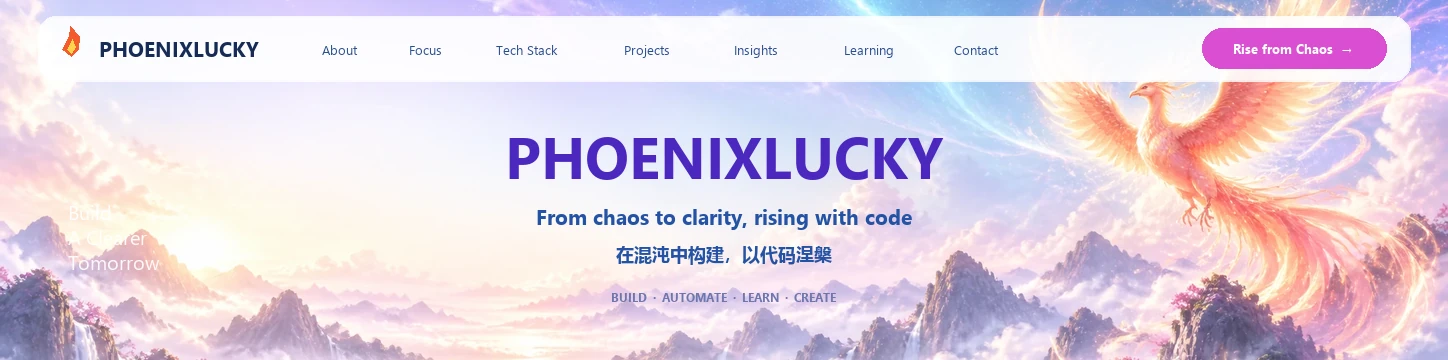
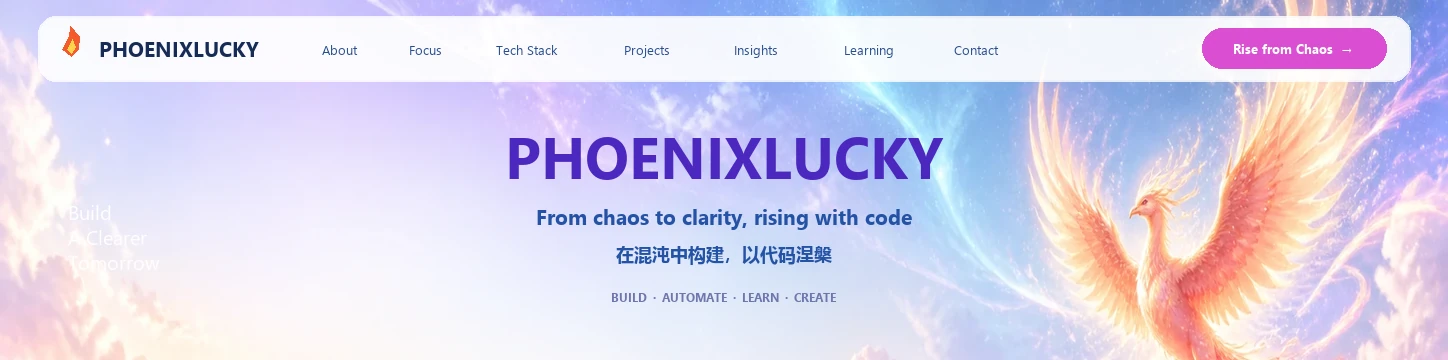
docs: refine README visual assets

diff --git a/scripts/build_readme_assets.py b/scripts/build_readme_assets.py
@@ -89,9 +89,24 @@ def background(size: tuple[int, int], source: Image.Image) -> Image.Image:
     return resized.crop((0, top, width, top + height)).convert("RGBA")
 
 
-def build_hero(tokens: dict[str, str | int], copy: dict, bg: Image.Image) -> Image.Image:
+def board_background(size: tuple[int, int], source: Image.Image) -> Image.Image:
+    width, height = size
+    canvas = Image.new("RGBA", size, "#F8F8FF")
+    scenic_height = min(height, 760)
+    scenic = source.resize((width, scenic_height), Image.Resampling.LANCZOS).convert("RGBA")
+    canvas.alpha_composite(scenic)
+    fade = Image.new("RGBA", size, (255, 255, 255, 0))
+    draw = ImageDraw.Draw(fade)
+    for y in range(440, height):
+        progress = min(1.0, (y - 440) / max(1, height - 440))
+        draw.line((0, y, width, y), fill=(248, 248, 255, round(225 * progress)))
+    canvas.alpha_composite(fade)
+    return canvas
+
+
+def build_hero(tokens: dict[str, str | int], copy: dict, bg: Image.Image, base: Image.Image | None = None) -> Image.Image:
     width = int(tokens["width"])
-    canvas = background((width, 360), bg)
+    canvas = base.copy() if base is not None else background((width, 360), bg)
     layer = Image.new("RGBA", canvas.size, (255, 255, 255, 0))
     draw = ImageDraw.Draw(layer)
     gutter = int(tokens["gutter"])
@@ -113,9 +128,9 @@ def build_hero(tokens: dict[str, str | int], copy: dict, bg: Image.Image) -> Ima
     return canvas
 
 
-def build_identity(tokens: dict[str, str | int], copy: dict, bg: Image.Image, usachi: Image.Image) -> Image.Image:
+def build_identity(tokens: dict[str, str | int], copy: dict, bg: Image.Image, usachi: Image.Image, base: Image.Image | None = None) -> Image.Image:
     width = int(tokens["width"])
-    canvas = background((width, 300), bg)
+    canvas = base.copy() if base is not None else background((width, 300), bg)
     layer = Image.new("RGBA", canvas.size, (255, 255, 255, 0))
     draw = ImageDraw.Draw(layer)
     card(layer, (196, 15, 1056, 270), 28, 224)
@@ -136,9 +151,9 @@ def build_identity(tokens: dict[str, str | int], copy: dict, bg: Image.Image, us
     return canvas
 
 
-def build_metrics(tokens: dict[str, str | int], copy: dict) -> Image.Image:
+def build_metrics(tokens: dict[str, str | int], copy: dict, bg: Image.Image, base: Image.Image | None = None) -> Image.Image:
     width = int(tokens["width"])
-    canvas = Image.new("RGBA", (width, 126), "#F8F8FF")
+    canvas = base.copy() if base is not None else background((width, 126), bg)
     draw = ImageDraw.Draw(canvas)
     labels = copy["metrics"]
     colors = ["#F447B5", "#7B61FF", "#10A998", "#F5772D", "#2B72D6"]
@@ -155,9 +170,9 @@ def build_metrics(tokens: dict[str, str | int], copy: dict) -> Image.Image:
     return canvas
 
 
-def build_navigation(tokens: dict[str, str | int], copy: dict) -> Image.Image:
+def build_navigation(tokens: dict[str, str | int], copy: dict, base: Image.Image | None = None) -> Image.Image:
     width = int(tokens["width"])
-    canvas = Image.new("RGBA", (width, 112), "#F8F8FF")
+    canvas = base.copy() if base is not None else Image.new("RGBA", (width, 112), "#F8F8FF")
     draw = ImageDraw.Draw(canvas)
     gutter = int(tokens["gutter"])
     card(canvas, (gutter, 12, width - 2 * gutter, 82), 20, 236)
@@ -174,9 +189,9 @@ def build_navigation(tokens: dict[str, str | int], copy: dict) -> Image.Image:
     return canvas
 
 
-def build_about(tokens: dict[str, str | int], copy: dict, bg: Image.Image) -> Image.Image:
+def build_about(tokens: dict[str, str | int], copy: dict, bg: Image.Image, base: Image.Image | None = None) -> Image.Image:
     width = int(tokens["width"])
-    canvas = Image.new("RGBA", (width, 310), "#F8F8FF")
+    canvas = base.copy() if base is not None else Image.new("RGBA", (width, 310), "#F8F8FF")
     layer = Image.new("RGBA", canvas.size, (255, 255, 255, 0))
     draw = ImageDraw.Draw(layer)
     gutter = int(tokens["gutter"])
@@ -207,6 +222,17 @@ def save_webp(image: Image.Image, name: str, quality: int = 90) -> None:
     print(f"{target.name}: {image.width}x{image.height}, {size} bytes")
 
 
+def build_profile_board(parts: list[Image.Image]) -> Image.Image:
+    width = parts[0].width
+    height = sum(part.height for part in parts)
+    board = Image.new("RGBA", (width, height), "#F8F8FF")
+    y = 0
+    for part in parts:
+        board.alpha_composite(part, (0, y))
+        y += part.height
+    return board
+
+
 def main() -> None:
     tokens = load_tokens()
     copy = json.loads((SOURCE / "copy.json").read_text(encoding="utf-8"))
@@ -214,12 +240,19 @@ def main() -> None:
     usachi = Image.open(SOURCE / "usachi.webp").convert("RGBA")
     OUTPUT.mkdir(parents=True, exist_ok=True)
 
-    hero = build_hero(tokens, copy, bg)
-    identity = build_identity(tokens, copy, bg, usachi)
-    metrics = build_metrics(tokens, copy)
-    navigation = build_navigation(tokens, copy)
+    section_heights = (360, 300, 126, 112)
+    board_base = board_background((int(tokens["width"]), sum(section_heights)), bg)
+    offsets = [0]
+    for height in section_heights[:-1]:
+        offsets.append(offsets[-1] + height)
+    hero = build_hero(tokens, copy, bg, board_base.crop((0, offsets[0], int(tokens["width"]), offsets[0] + section_heights[0])))
+    identity = build_identity(tokens, copy, bg, usachi, board_base.crop((0, offsets[1], int(tokens["width"]), offsets[1] + section_heights[1])))
+    metrics = build_metrics(tokens, copy, bg, board_base.crop((0, offsets[2], int(tokens["width"]), offsets[2] + section_heights[2])))
+    navigation = build_navigation(tokens, copy, board_base.crop((0, offsets[3], int(tokens["width"]), offsets[3] + section_heights[3])))
     about = build_about(tokens, copy, bg)
+    board = build_profile_board([hero, identity, metrics, navigation])
 
+    save_webp(board, "profile-board.webp", quality=88)
     save_webp(hero, "hero.webp")
     save_webp(identity, "identity-card.webp")
     save_webp(metrics, "metrics.webp")

diff --git a/README.md b/README.md
@@ -1,10 +1,6 @@
 <div align="center">
 
-<a href="#-about"><img src="./assets/readme/hero.webp" width="100%" alt="Phoenixlucky hero with pastel sky, phoenix and navigation" /></a>
-<a href="#-about"><img src="./assets/readme/identity-card.webp" width="100%" alt="Phoenixlucky identity card with Usachi mascot and profile statement" /></a>
-<a href="#-focus"><img src="./assets/readme/metrics.webp" width="100%" alt="Phoenixlucky focus metrics" /></a>
-<img src="./assets/readme/navigation.webp" width="100%" alt="README section navigation visual" />
-<a href="#-about"><img src="./assets/readme/about-banner.webp" width="100%" alt="About Phoenixlucky with a mountain banner" /></a>
+<img src="./assets/readme/profile-board.webp" width="100%" alt="Phoenixlucky profile board with pastel phoenix, identity card, metrics and navigation" />
 
 <p>
   <a href="#-about">🔥 About</a> ·
@@ -17,31 +13,6 @@
 </p>
 
 </div>
-
-<hr />
-
-<table align="center" width="100%">
-  <tr>
-    <td align="center" width="25%">
-      <strong>🔥 BUILDER</strong><br />
-      <sub>把想法做成工具</sub>
-    </td>
-    <td align="center" width="25%">
-      <strong>⚙ AUTOMATOR</strong><br />
-      <sub>让重复工作消失</sub>
-    </td>
-    <td align="center" width="25%">
-      <strong>🧭 PROBLEM SOLVER</strong><br />
-      <sub>把复杂变成清晰</sub>
-    </td>
-    <td align="center" width="25%">
-      <strong>🌱 LIFELONG LEARNER</strong><br />
-      <sub>持续构建与迭代</sub>
-    </td>
-  </tr>
-</table>
-
-<hr />
 
 ## 🔥 About
 
